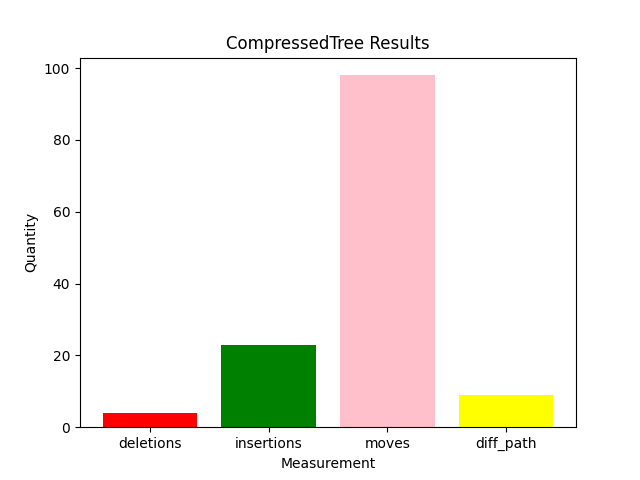
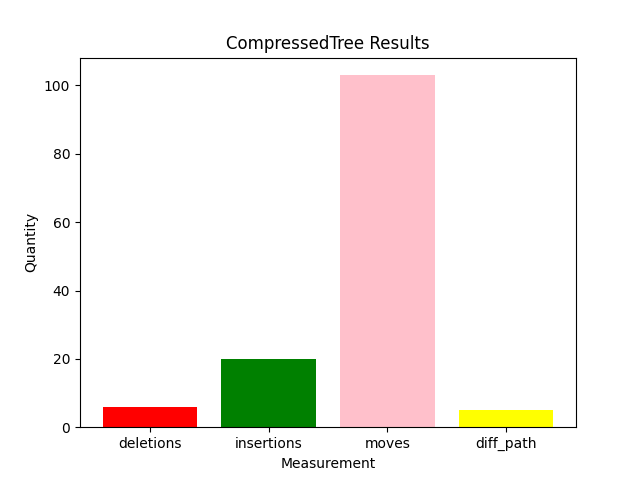
Updated python case study analysis
Updated python after changing run_algo script.

diff --git a/demos/run_algo.py b/demos/run_algo.py
@@ -86,11 +86,14 @@ def search_gumtree(result,new):
             match=rx.search(val)
             if (match):
                 if (key=='diff_path'):
-                    range=re.findall(r'\[.*?\]',val)[0]
-                    end=range.split(',')[1].strip(']')
-                    if (int(end)<2000):
-                        data[key]+=1
-                elif ('import' in val) or ("Import" in val) and ("operator: ," not in val):
+                    try:
+                        range=re.findall(r'\[.*?\]',val)[0]
+                        end=range.split(',')[1].strip(']')
+                        if (int(end)<2000):
+                            data[key]+=1
+                    except:
+                        pass
+                elif (('import' in val) or ("Import" in val)) and ("operator: ," not in val):
                     data[key]+=1
 
     with open(new,'w') as writer:

diff --git a/demos/readme.md b/demos/readme.md
@@ -9,10 +9,10 @@ In order to better understand to strengths and limitations of our algorithms, it
 ## Results
 
 Combining the results from the java and python case studies, we get the following data:
-* 7 Deletions: Every package in desired version is present in the result.
-* 103 insertions: Extra packages present in the result that are not there in the desired.
-* 138 Moves: Number of import statements in the result that are in a different spot from desired.
-* 8 Different Paths: Number of import statements in result that are from the wrong path.
+* 9 Deletions: Every package in desired version is present in the result.
+* 100 insertions: Extra packages present in the result that are not there in the desired.
+* 143 Moves: Number of import statements in the result that are in a different spot from desired.
+* 10 Different Paths: Number of import statements in result that are from the wrong path.
 
 ![My Image](images/CompressedTree.png)
 

diff --git a/demos/python_case_studies/readme.md b/demos/python_case_studies/readme.md
@@ -6,10 +6,10 @@
 
 ### CompressedTree Algorithm:
 
-* 4 Deletions: Every package in desired version is present in the result.
-* 23 insertions: Extra packages present in the result that are not there in the desired.
-* 98 Moves: Number of import statements in the result that are in a different spot from desired.
-* 9 Different Paths: Number of import statements in result that are from the wrong path.
+* 6 Deletions: Every package in desired version is present in the result.
+* 20 insertions: Extra packages present in the result that are not there in the desired.
+* 103 Moves: Number of import statements in the result that are in a different spot from desired.
+* 5 Different Paths: Number of import statements in result that are from the wrong path.
 
 ![My Image](images/CompressedTree.png)
 
